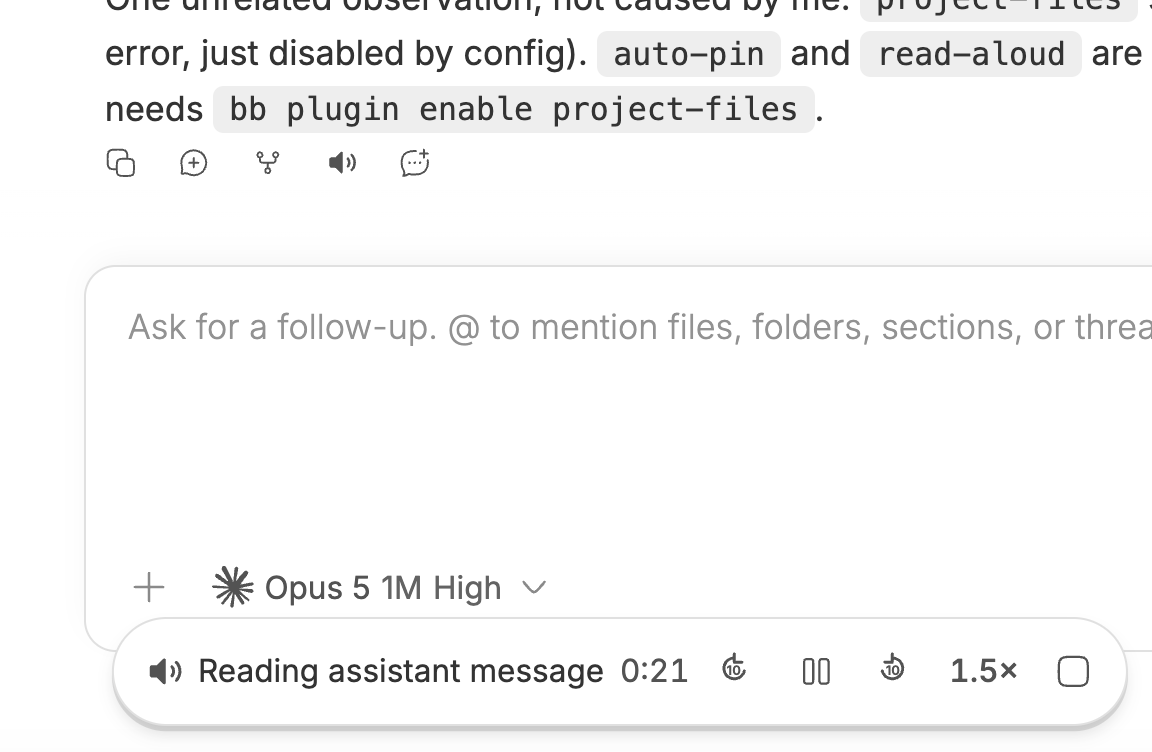
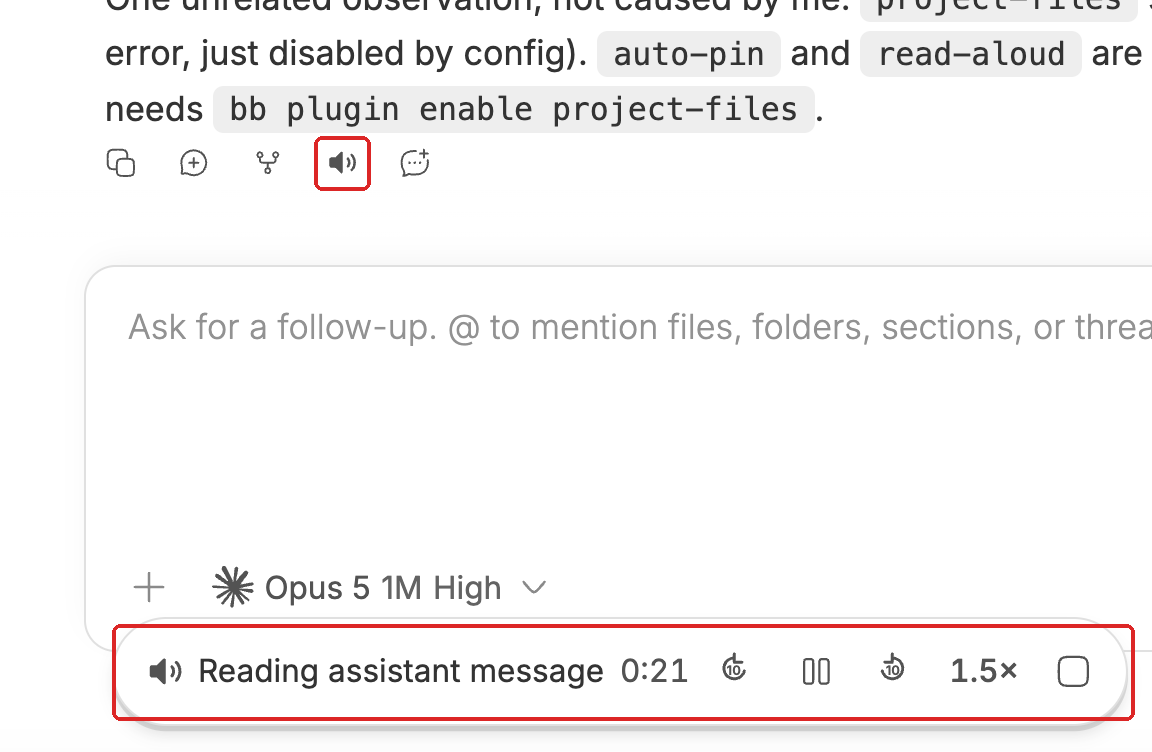
docs(read-aloud): annotate the screenshot and fix the button's description
Two corrections to the previous commit.

The READMEs said the speaker button sits beside Copy message. It does
not: it is the fourth of five icons in the message action row, with the
add, branch, and comment actions around it. Both now just say it is a
new button on the message action row.

The screenshot also needed to distinguish what is new from what was
already there, since it shows a whole region of existing chrome. Red
boxes now mark the two additions: the speaker button and the transport
popup. This is also why the surrounding chat snippet belongs in the
frame — it gives the two boxes something to be new against, so the crop
I attempted last time would have made the image worse, not better.

diff --git a/README.md b/README.md
@@ -29,7 +29,7 @@ bb plugin install git:https://github.com/csells/bb-plugins.git@main --plugin aut
 ## Read Aloud
 
 `plugins/read-aloud` speaks any chat message with a streaming neural voice,
-adding a speaker button beside **Copy message** and a floating transport with
+adding a speaker button to the message action row and a floating transport with
 ±10s seek, playback speed, pause, and stop. It stops itself when you switch
 threads or send a new prompt. Synthesis speaks Microsoft Edge's Read Aloud
 protocol directly, so there is no API key, no metering, and no external

diff --git a/plugins/read-aloud/README.md b/plugins/read-aloud/README.md
@@ -3,7 +3,7 @@
 Speak any chat message out loud, with a streaming neural voice and a real
 transport: seek, speed, pause, stop.
 
-Adds a speaker button to every message's action row, beside **Copy message**.
+Adds a speaker button to every message's action row.
 Click it and a floating pill appears with elapsed time, ±10s seek, pause,
 playback speed, and stop.
 
